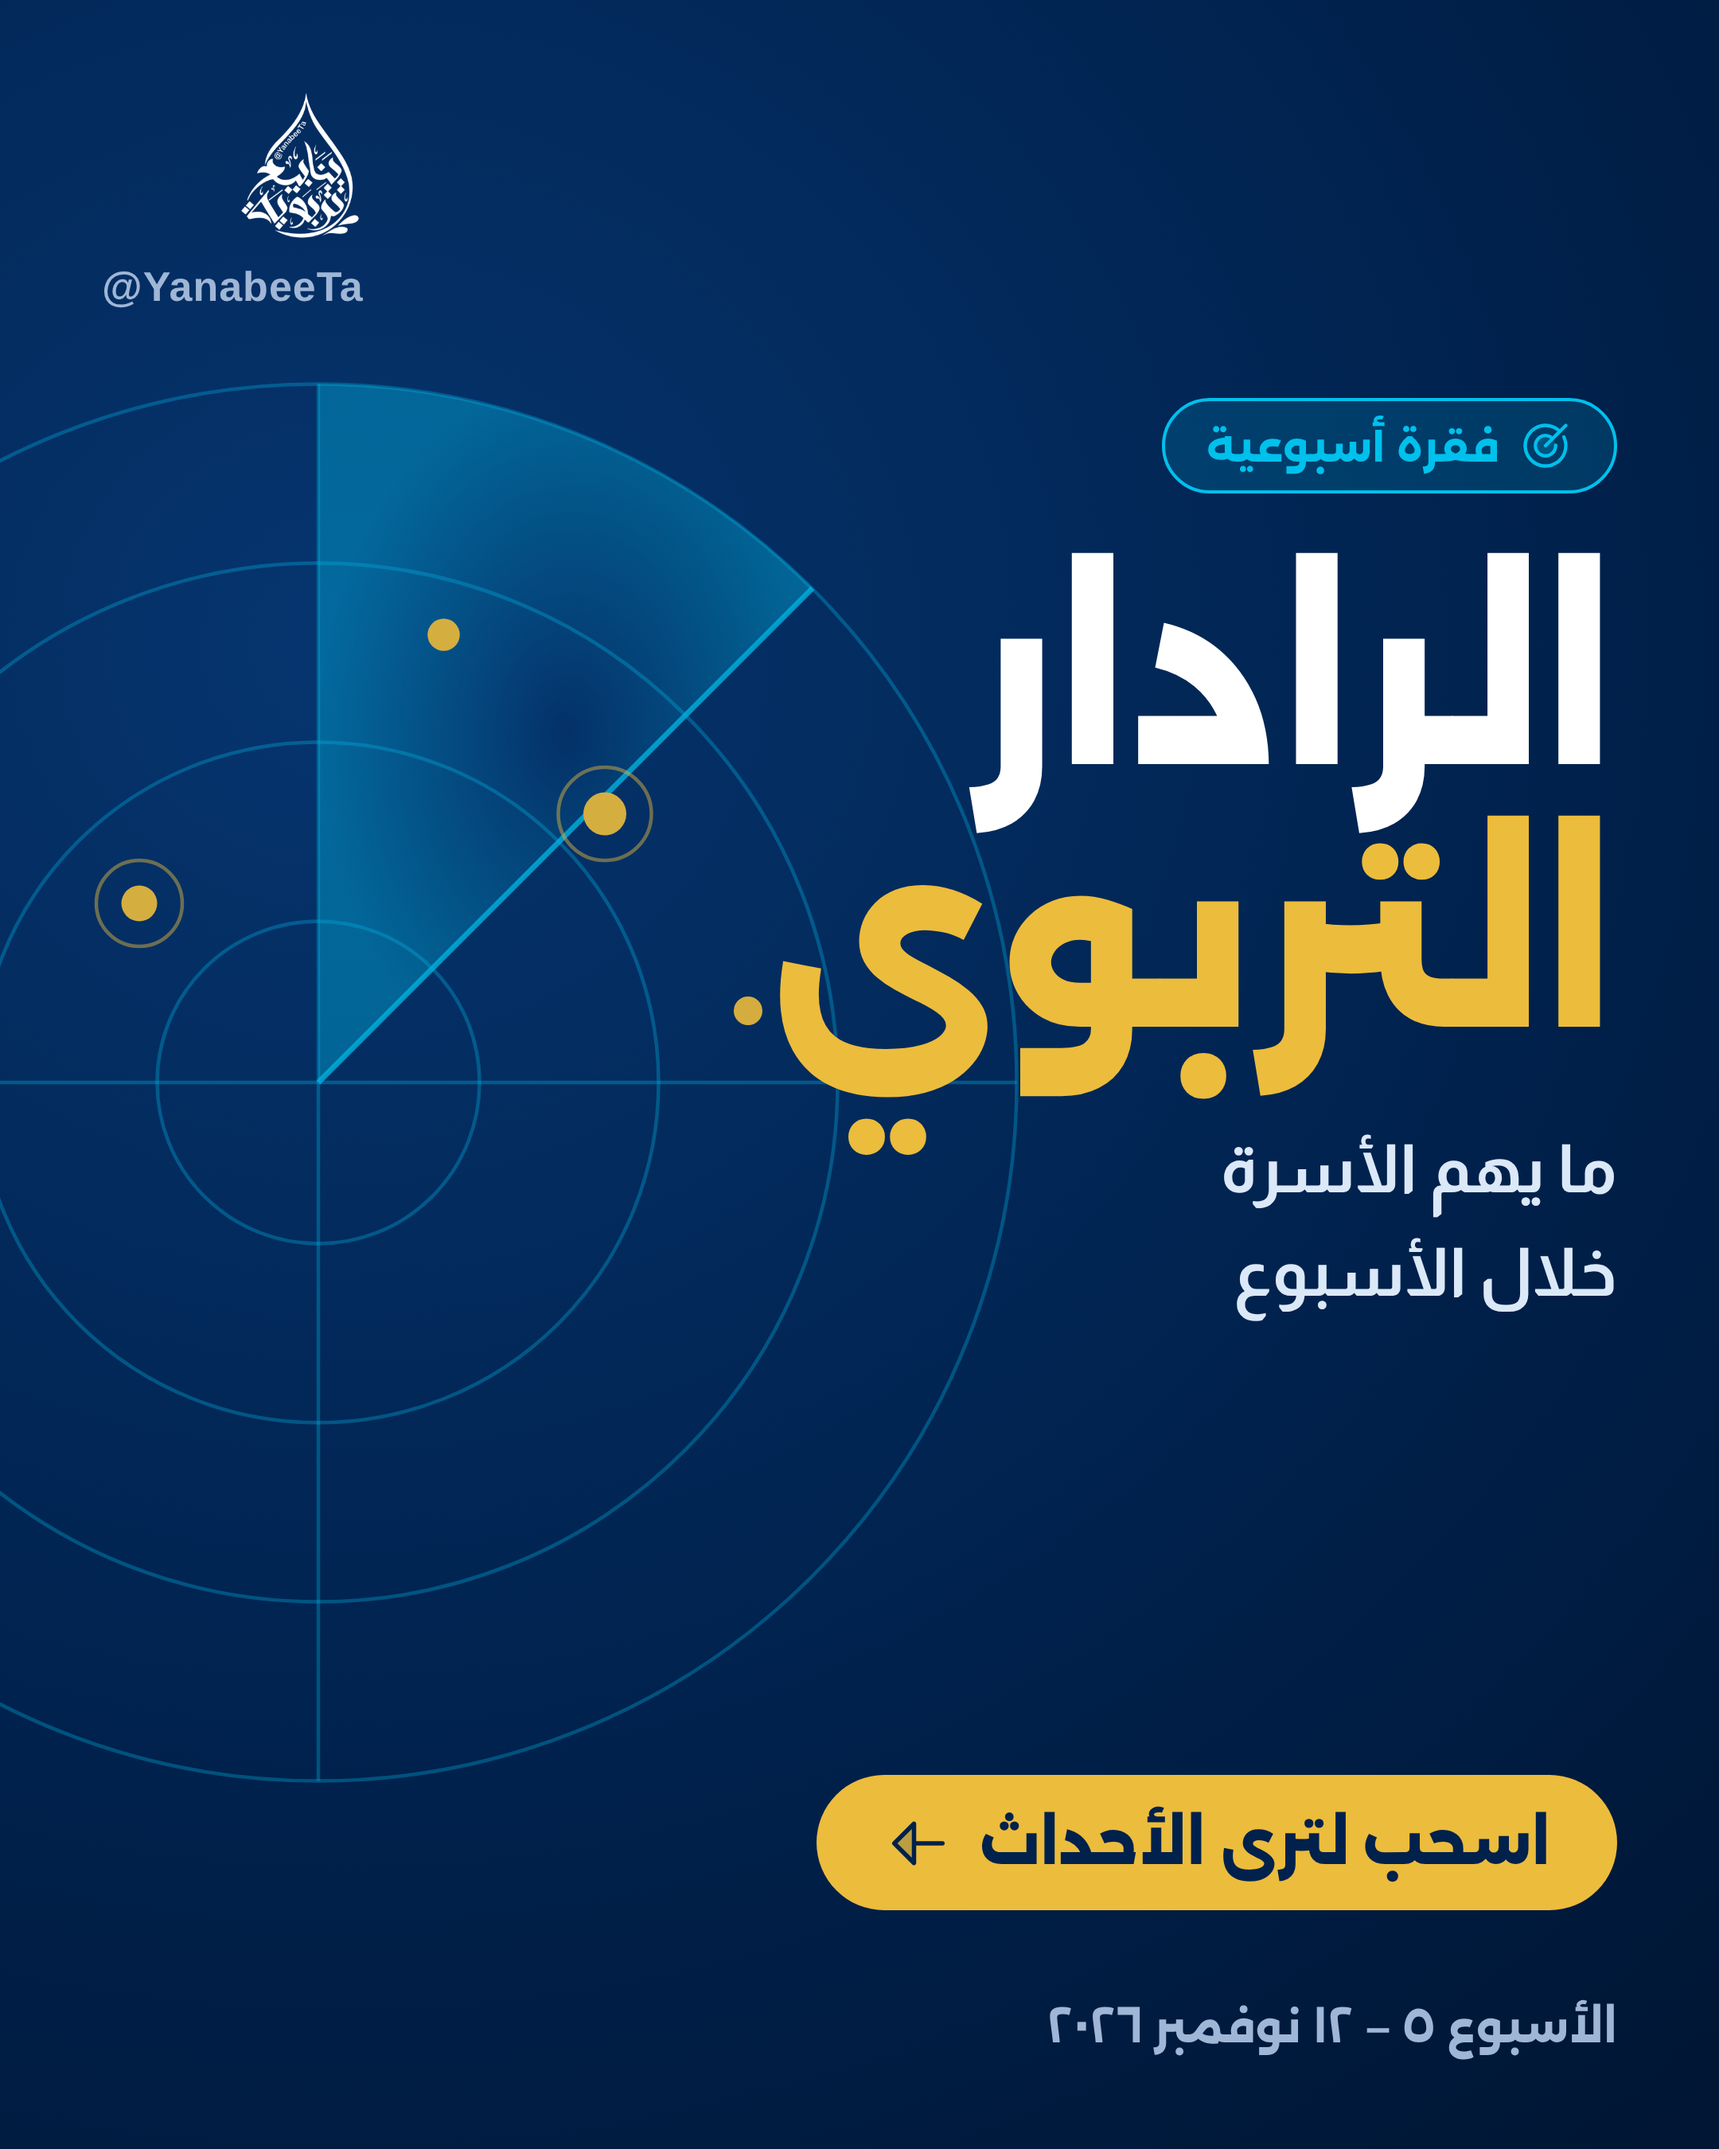
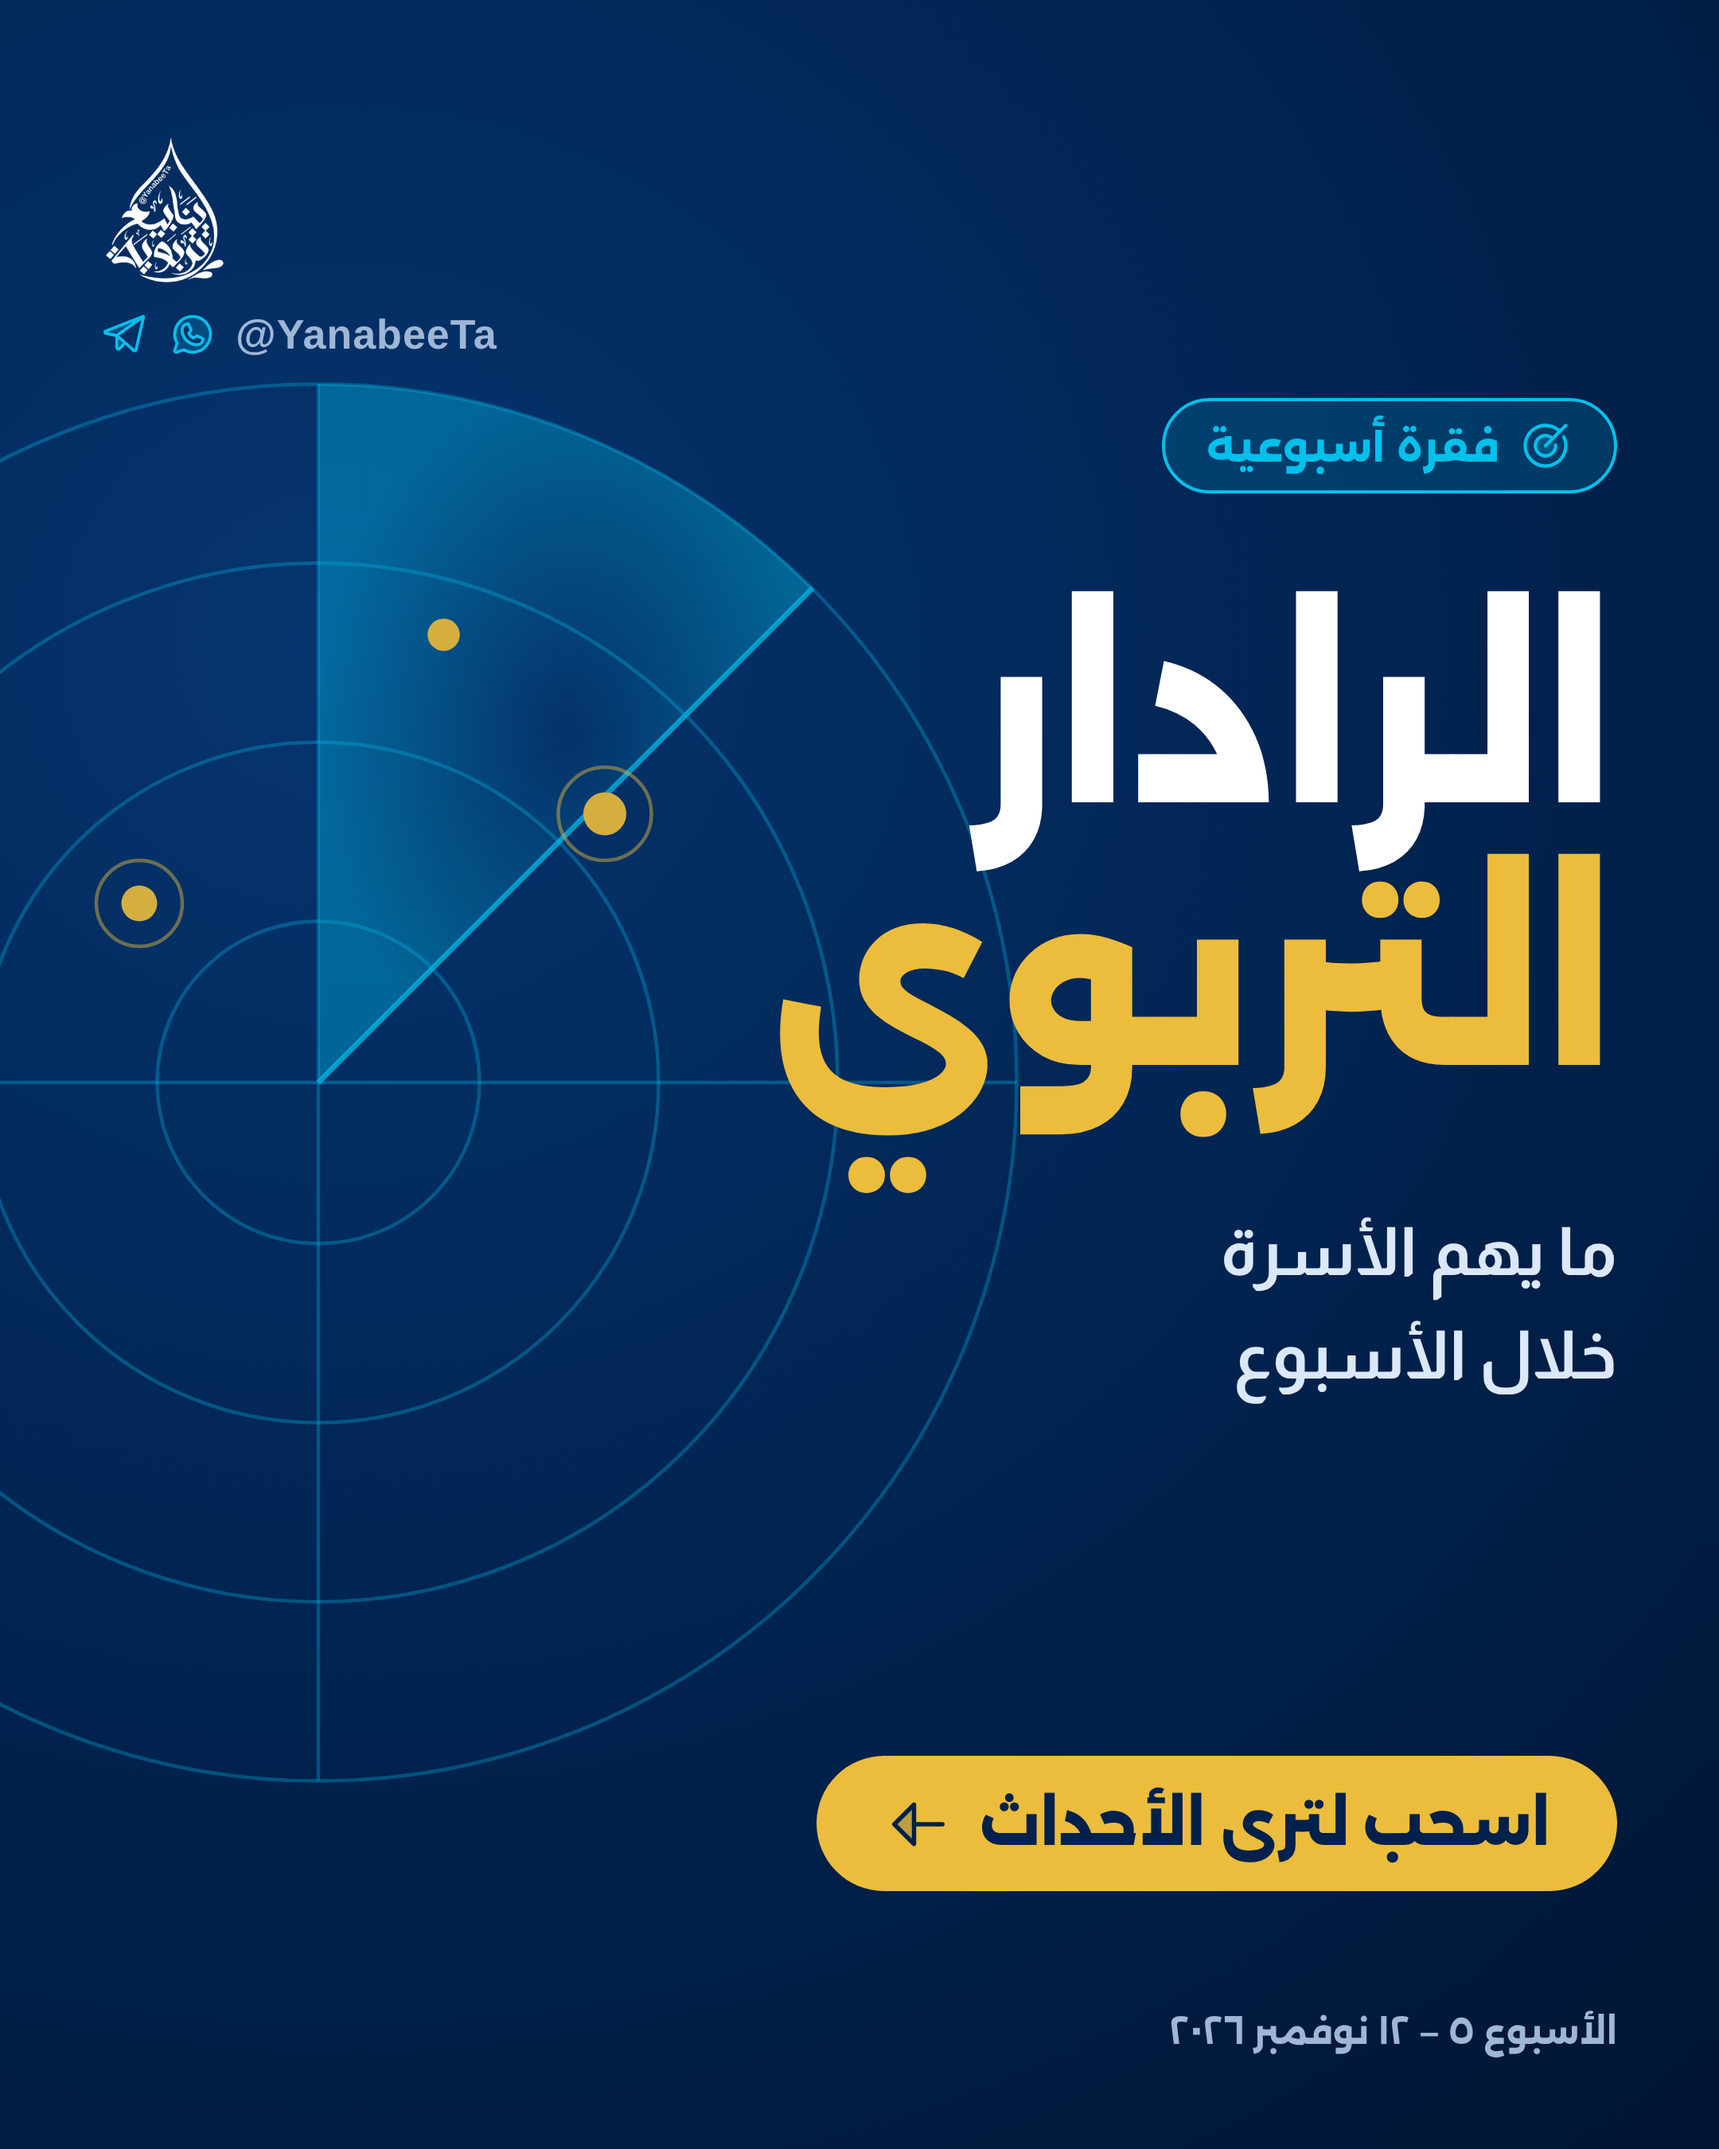
تحسين غلاف الرادار التربوي

diff --git a/tools/radar/render_radar.py b/tools/radar/render_radar.py
@@ -52,7 +52,7 @@ RADAR = f'''
  </g>
  <path d="M400 400 L400 10 A390 390 0 0 1 676 124 Z" fill="url(#sw)"/>
  <line x1="400" y1="400" x2="676" y2="124" stroke="{CY}" stroke-width="3" stroke-opacity=".8"/>
- <g fill="{GD}"><circle cx="560" cy="250" r="12"/><circle cx="470" cy="150" r="9"/><circle cx="300" cy="300" r="10"/><circle cx="640" cy="360" r="8"/></g>
+ <g fill="{GD}"><circle cx="560" cy="250" r="12"/><circle cx="470" cy="150" r="9"/><circle cx="300" cy="300" r="10"/></g>
  <g fill="none" stroke="{GD}" stroke-opacity=".5" stroke-width="2"><circle cx="560" cy="250" r="26"/><circle cx="300" cy="300" r="24"/></g>
 </svg>'''
 
@@ -77,16 +77,16 @@ TOTAL = len(EVENTS) + 2
 def cover():
     css = f'''body,.stage{{background:radial-gradient(120% 90% at 20% 30%,#06356f 0%,{NAVY} 60%,#001634 100%);color:#fff}}'''
     body = f'''{RADAR}
-    <div style="position:absolute;top:56px;left:64px;display:flex;flex-direction:column;align-items:flex-start;gap:12px"><img src="file://{KIT}/logo-white.png" style="height:96px"><div class="d" style="font-size:26px;font-weight:700;letter-spacing:.5px;color:#9fb6d6;direction:ltr">@YanabeeTa</div></div>
+    <div style="position:absolute;top:84px;left:64px;direction:ltr;display:flex;flex-direction:column;align-items:flex-start;gap:14px"><img src="file://{KIT}/logo-white.png" style="height:96px"><div style="display:flex;align-items:center;gap:12px;color:#9fb6d6;direction:ltr">{ic('telegram-logo',30,CY)}{ic('whatsapp-logo',30,CY)}<span class="d" style="font-size:26px;font-weight:700;letter-spacing:.5px">@YanabeeTa</span></div></div>
     <div style="position:absolute;top:250px;right:64px;left:64px">
       <div class="d" style="display:inline-flex;align-items:center;gap:12px;background:rgba(0,192,236,.16);border:2px solid {CY};color:{CY};border-radius:999px;padding:11px 26px;font-size:27px;font-weight:700">{ic('target',34,CY)}<span>فقرة أسبوعية</span></div>
-      <div class="d" style="font-size:150px;font-weight:800;line-height:1.1;margin-top:34px">الرادار<br><span style="color:{GD}">التربوي</span></div>
-      <div style="font-size:42px;font-weight:700;line-height:1.55;margin-top:28px;max-width:820px;color:#dbe8f7">ما يهم الأسرة<br>خلال الأسبوع</div>
+      <div class="d" style="font-size:150px;font-weight:800;line-height:1.1;margin-top:58px">الرادار<br><span style="color:{GD}">التربوي</span></div>
+      <div style="font-size:42px;font-weight:700;line-height:1.55;margin-top:56px;max-width:820px;color:#dbe8f7">ما يهم الأسرة<br>خلال الأسبوع</div>
     </div>
-    <div style="position:absolute;bottom:150px;right:64px;display:flex;align-items:center;gap:22px">
+    <div style="position:absolute;bottom:162px;right:64px;display:flex;align-items:center;gap:22px">
       <div class="d" style="display:flex;align-items:center;gap:16px;background:{GD};color:{NAVY};border-radius:999px;padding:20px 42px;font-size:37px;font-weight:800">اسحب لترى الأحداث {ic('arrow-left',44,NAVY)}</div>
     </div>
-    <div class="d" style="position:absolute;bottom:60px;right:64px;left:64px;display:flex;justify-content:space-between;align-items:center;font-size:28px;font-weight:700;color:#9fb6d6">
+    <div class="d" style="position:absolute;bottom:60px;right:64px;left:64px;display:flex;justify-content:space-between;align-items:center;font-size:22px;font-weight:700;color:#9fb6d6">
       <span>{E(WEEK)}</span></div>'''
     return page(css, body)
 
